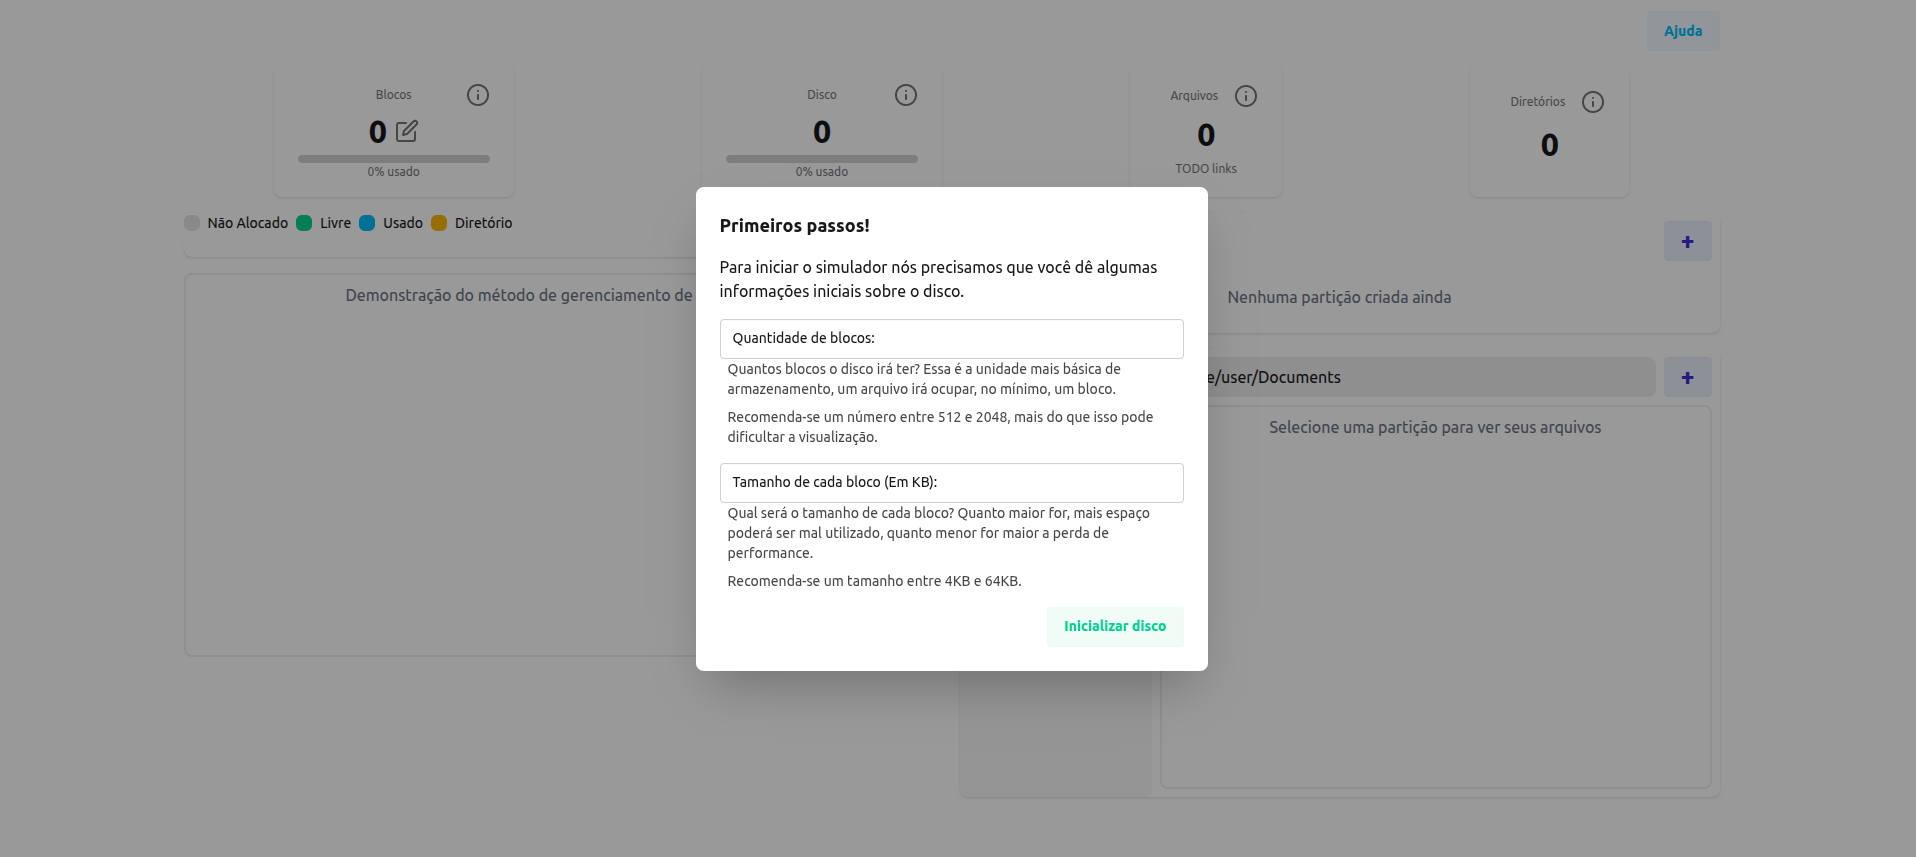
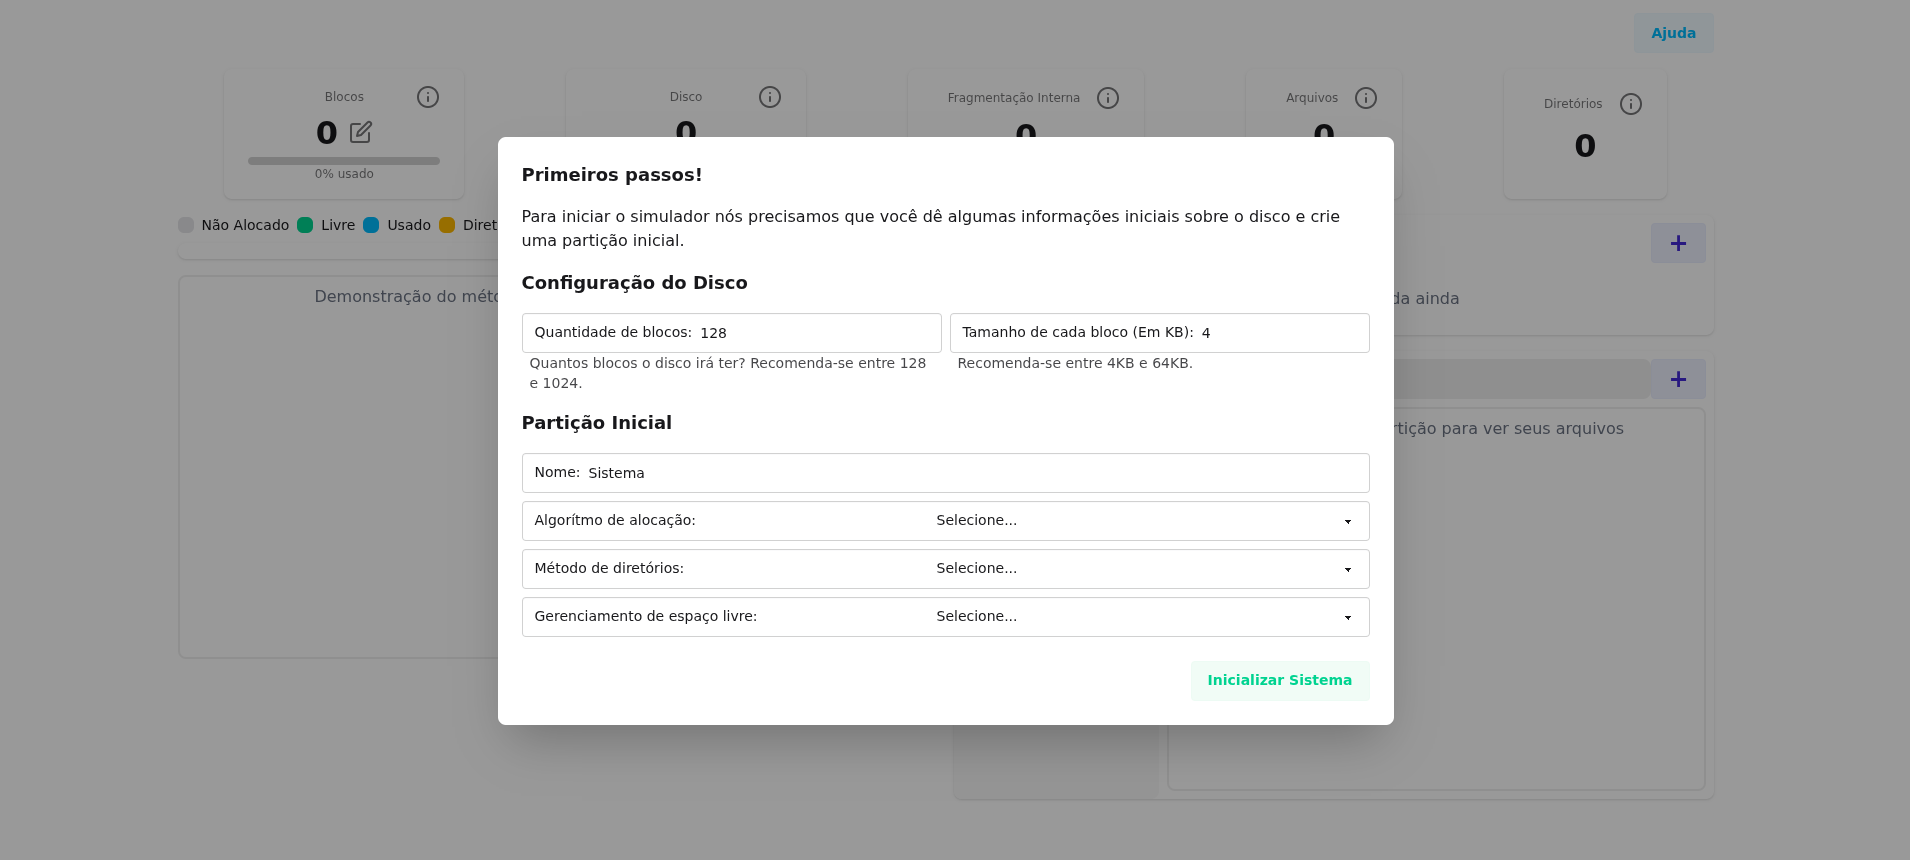
update readme

diff --git a/README.md b/README.md
@@ -26,17 +26,15 @@ Para usar o simulador, basta acessar o link [Simulador Sistema De Arquivos](http
 
 ![alt text](/imgs/image.png)
 
-Nela, você definirá quantos blocos terá o seu disco e qual o tamanho de cada bloco. Por óbvio, o tamanho em Mb do disco será a multiplicação destes dois valores.Obeserve que que há uma recomendação de tamanho de cada disco ser entre 4 e 64 Kb. No exemplo, eu adicionei 64 blocos de 2 Kb , totalizando um pouco mais 120 Kb.
+Nela, você definirá quantos blocos terá o seu disco e qual o tamanho de cada bloco. Por óbvio, o tamanho em Mb do disco será a multiplicação destes dois valores.Observe que que há uma recomendação de quantidade de blocos e tamanho de cada bloco do disco. No exemplo, eu adicionei 128 blocos de 4 Kb , totalizando por volta de 500 kb. Para inicializar um disco, deve-se criar uma partição inicial para ele. Defina o nome que desejar e os métodos de gerenciamento que preferir.
 
-![alt text](/imgs/image-1.png)
+![alt text](/imgs/image1.png)
 
 Disco criado! Agora você pode gerenciar suas partições, diretórios e arquivos. 
 
-![alt text](/imgs/image-2.png)
+![alt text](/imgs/image2.png)
 
-Criando uma partição:
-
-![alt text](/imgs/image-3.png)
+Ao selecionar uma partição específica, o usuário pode verificar o método de gerenciamento de espaço livre da mesma e mais alguns detalhes.
 
 ## Autores
 
